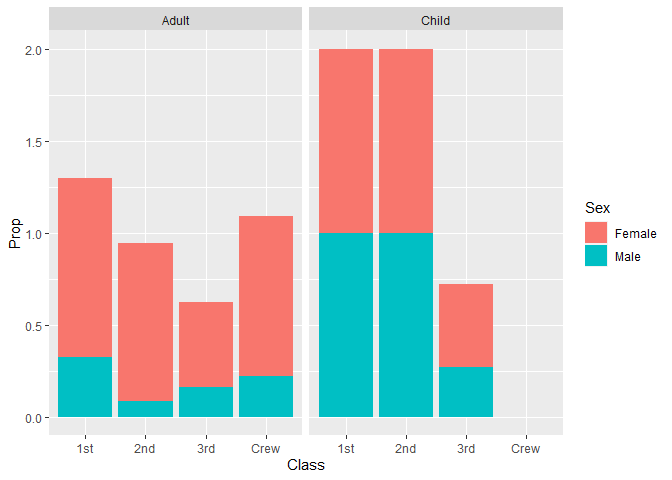
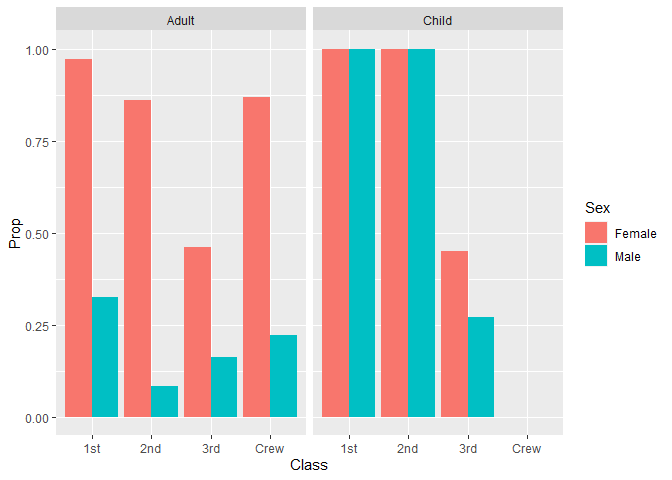
Titanic Resubmit

diff --git a/challenges/c01-titanic-assignment.md b/challenges/c01-titanic-assignment.md
@@ -159,6 +159,7 @@ df_titanic %>% summarize(total = sum(n))
   - Maybe a person who had booked a ticket but didn’t show?
   - An individual present that there wasn’t class, age, and sex data
     available for
+  - No data on whether they survived or not?
 
 ### **q3** Create a plot showing the count of persons who *did* survive, along with aesthetics for `Class` and `Sex`. Document your observations below.
 
@@ -175,9 +176,9 @@ df_titanic %>%
 
 **Observations**:
 
-- More females survived from 1st and 2nd class
-- Equal gender survival rates in 3rd class
-- Many more men survived from crew
+- More females than males survived from 1st and 2nd class
+- Equal numbers of each gender survived in 3rd class
+- Many more men than women survived from crew
 - More Crew survived in general than any class of passenger
 - These differences may be because there were many more crew in general
   than specific class of passenger
@@ -259,11 +260,11 @@ additional variables!
 df_prop %>%
   filter(Survived == "Yes") %>%
   ggplot() + 
-  geom_col(aes(x = Class, y = Prop, fill = Sex)) + 
-  facet_wrap(~ Age)
+  geom_col(aes(x = Class, y = Prop, fill = Sex), position = "Dodge") + 
+  facet_grid(~ Age)
 ```
 
-    ## Warning: Removed 2 rows containing missing values (`position_stack()`).
+    ## Warning: Removed 2 rows containing missing values (`geom_col()`).
 
 ![](c01-titanic-assignment_files/figure-gfm/q5-task-1.png)<!-- -->
 
